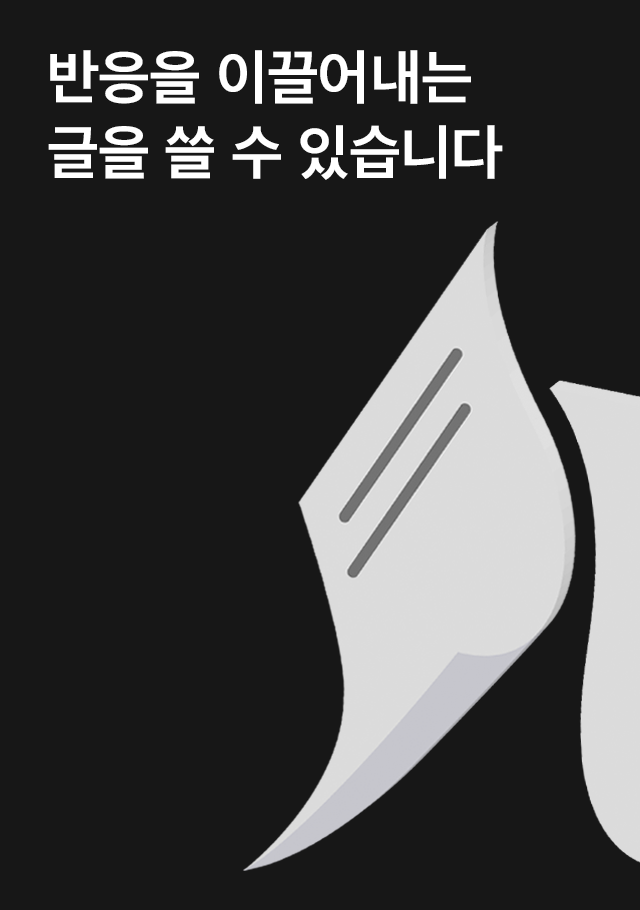
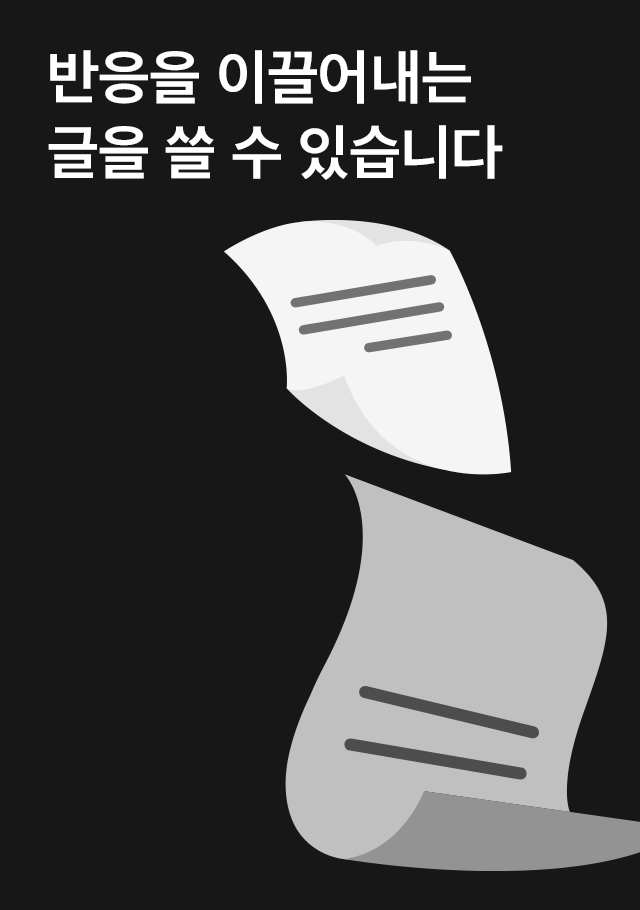
END

diff --git a/index.html b/index.html
@@ -79,7 +79,7 @@
                     <div class="swiper-slide"><img src="img/프로모션.png" no-repeat 50% 50%;></div>
                     <div class="swiper-slide"><img src="img/채널.png" no-repeat 50% 50%;></div>
                     <div class="swiper-slide"><img src="img/브랜드디자인.png" no-repeat 50% 50%;></div>
-                    <div class="swiper-slide"><img src="img/znrdl.png" no-repeat 50% 50%;></div>
+                    <div class="swiper-slide"><img src="img/막.png" no-repeat 50% 50%;></div>
                     <div class="swiper-slide"><img src="img/광고.png" no-repeat 50% 50%;></div>
                     <div class="swiper-slide"><img src="img/데이터.png" no-repeat 50% 50%;></div>
                 </div>
